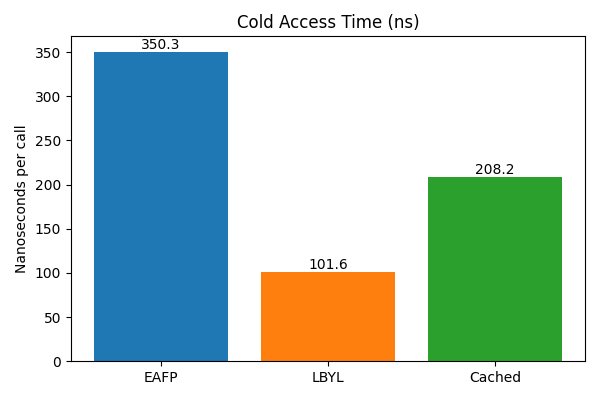
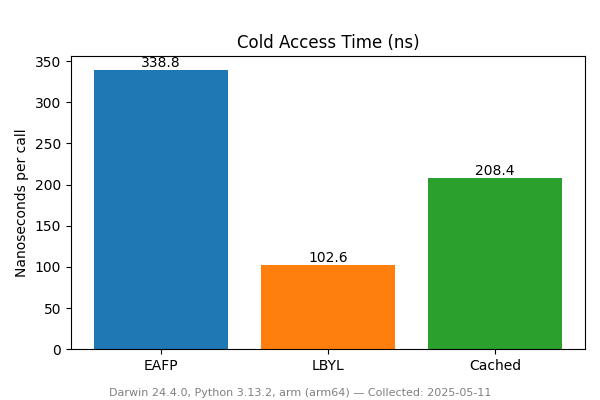
Added benchmark script and updated graphs

diff --git a/python/lazy_properties/benchmark.py b/python/lazy_properties/benchmark.py
@@ -1,0 +1,166 @@
+import timeit
+import gc
+import platform
+import sys
+from datetime import datetime
+import matplotlib.pyplot as plt
+
+# --------- Benchmark Setup ---------
+from functools import cached_property
+
+def compute():
+    return 42
+
+class EAFP:
+    @property
+    def foo(self):
+        try:
+            return self._foo
+        except AttributeError:
+            self._foo = compute()
+            return self._foo
+
+class LBYL:
+    @property
+    def foo(self):
+        if not hasattr(self, '_foo'):
+            self._foo = compute()
+        return self._foo
+
+class Cached:
+    @cached_property
+    def foo(self):
+        return compute()
+
+# --------- Benchmark Functions ---------
+
+def benchmark_cold_access(cls, iterations=1_000_000):
+    gc.disable()
+    def run():
+        obj = cls()
+        return obj.foo
+    timer = timeit.Timer(run)
+    total_time = timer.timeit(number=iterations)
+    gc.enable()
+    return (total_time / iterations) * 1e9  # nanoseconds
+
+def benchmark_warm_access(cls, iterations=10_000, inner_loops=100):
+    gc.disable()
+    def run():
+        obj = cls()
+        obj.foo  # prime cache
+        for _ in range(inner_loops):
+            obj.foo
+    timer = timeit.Timer(run)
+    total_time = timer.timeit(number=iterations)
+    gc.enable()
+    return (total_time / (iterations * inner_loops)) * 1e9  # nanoseconds
+
+def compute_total_time(cold_ns, warm_ns, access_counts):
+    return [cold_ns + warm_ns * (n - 1) for n in access_counts]
+
+# --------- System Metadata ---------
+
+def get_environment_info():
+    return {
+        "Python": sys.version.split()[0],
+        "OS": platform.system() + " " + platform.release(),
+        "Machine": platform.machine(),
+        "Processor": platform.processor() or platform.machine(),
+        "Date": datetime.now().strftime('%Y-%m-%d'),
+    }
+
+env = get_environment_info()
+env_str = f"{env['OS']}, Python {env['Python']}, {env['Processor']} ({env['Machine']}) — Collected: {env['Date']}"
+
+# --------- Run Benchmarks ---------
+
+classes = {
+    "EAFP": EAFP,
+    "LBYL": LBYL,
+    "Cached": Cached
+}
+
+print("Running cold access benchmarks...")
+cold_results = {name: benchmark_cold_access(cls) for name, cls in classes.items()}
+print("Running warm access benchmarks...")
+warm_results = {name: benchmark_warm_access(cls) for name, cls in classes.items()}
+
+# Access counts for total time simulation
+access_counts = [1, 2, 5, 10, 100, 1_000, 10_000, 100_000]
+total_times = {
+    name: compute_total_time(cold_results[name], warm_results[name], access_counts)
+    for name in classes
+}
+
+# --------- Print Tables ---------
+
+print("\nCold Access (ns per call):")
+for name, ns in cold_results.items():
+    print(f"{name:<8}: {ns:.1f} ns")
+
+print("\nWarm Access (ns per call):")
+for name, ns in warm_results.items():
+    print(f"{name:<8}: {ns:.1f} ns")
+
+print("\nTotal Time vs Access Count (ns):")
+print(f"{'Accesses':<10} {'EAFP':>12} {'LBYL':>12} {'Cached':>12}")
+for i, count in enumerate(access_counts):
+    e = total_times["EAFP"][i]
+    l = total_times["LBYL"][i]
+    c = total_times["Cached"][i]
+    print(f"{count:<10} {e:>12.1f} {l:>12.1f} {c:>12.1f}")
+
+# --------- Plotting ---------
+
+def plot_bar(title, ylabel, data_dict, filename):
+    names = list(data_dict.keys())
+    values = [data_dict[name] for name in names]
+    plt.figure(figsize=(6, 4))
+    bars = plt.bar(names, values, color=["#1f77b4", "#ff7f0e", "#2ca02c"])
+    plt.ylabel(ylabel)
+    plt.title(title)
+    for bar, val in zip(bars, values):
+        plt.text(bar.get_x() + bar.get_width() / 2, val, f"{val:.1f}", ha='center', va='bottom')
+
+    # Add environment info footer
+    plt.figtext(0.5, 0.01, env_str, ha='center', fontsize=8, color='gray')
+    plt.tight_layout(rect=[0, 0.03, 1, 0.95])
+    plt.savefig(f"graphs/{filename}")
+    print(f"Saved graphs/{filename}")
+    plt.close()
+
+# Ensure output directory exists
+import os
+os.makedirs("graphs", exist_ok=True)
+
+plot_bar(
+    "Cold Access Time (ns)", 
+    "Nanoseconds per call", 
+    cold_results, 
+    "cold_access.png"
+)
+
+plot_bar(
+    "Warm Access Time (ns)", 
+    "Nanoseconds per call", 
+    warm_results, 
+    "warm_access.png"
+)
+
+# Total access time plot
+plt.figure(figsize=(7, 5))
+for name in classes:
+    plt.plot(access_counts, total_times[name], label=name)
+plt.xlabel("Number of Accesses")
+plt.ylabel("Total Time (ns)")
+plt.title("Total Time vs Access Count")
+plt.xscale("log")
+plt.yscale("log")
+plt.grid(True, which="both", linestyle="--", alpha=0.5)
+plt.legend()
+plt.figtext(0.5, 0.01, env_str, ha='center', fontsize=8, color='gray')
+plt.tight_layout(rect=[0, 0.03, 1, 0.95])
+plt.savefig("graphs/total_time_vs_accesses.png")
+print("Saved graphs/total_time_vs_accesses.png")
+plt.close()
